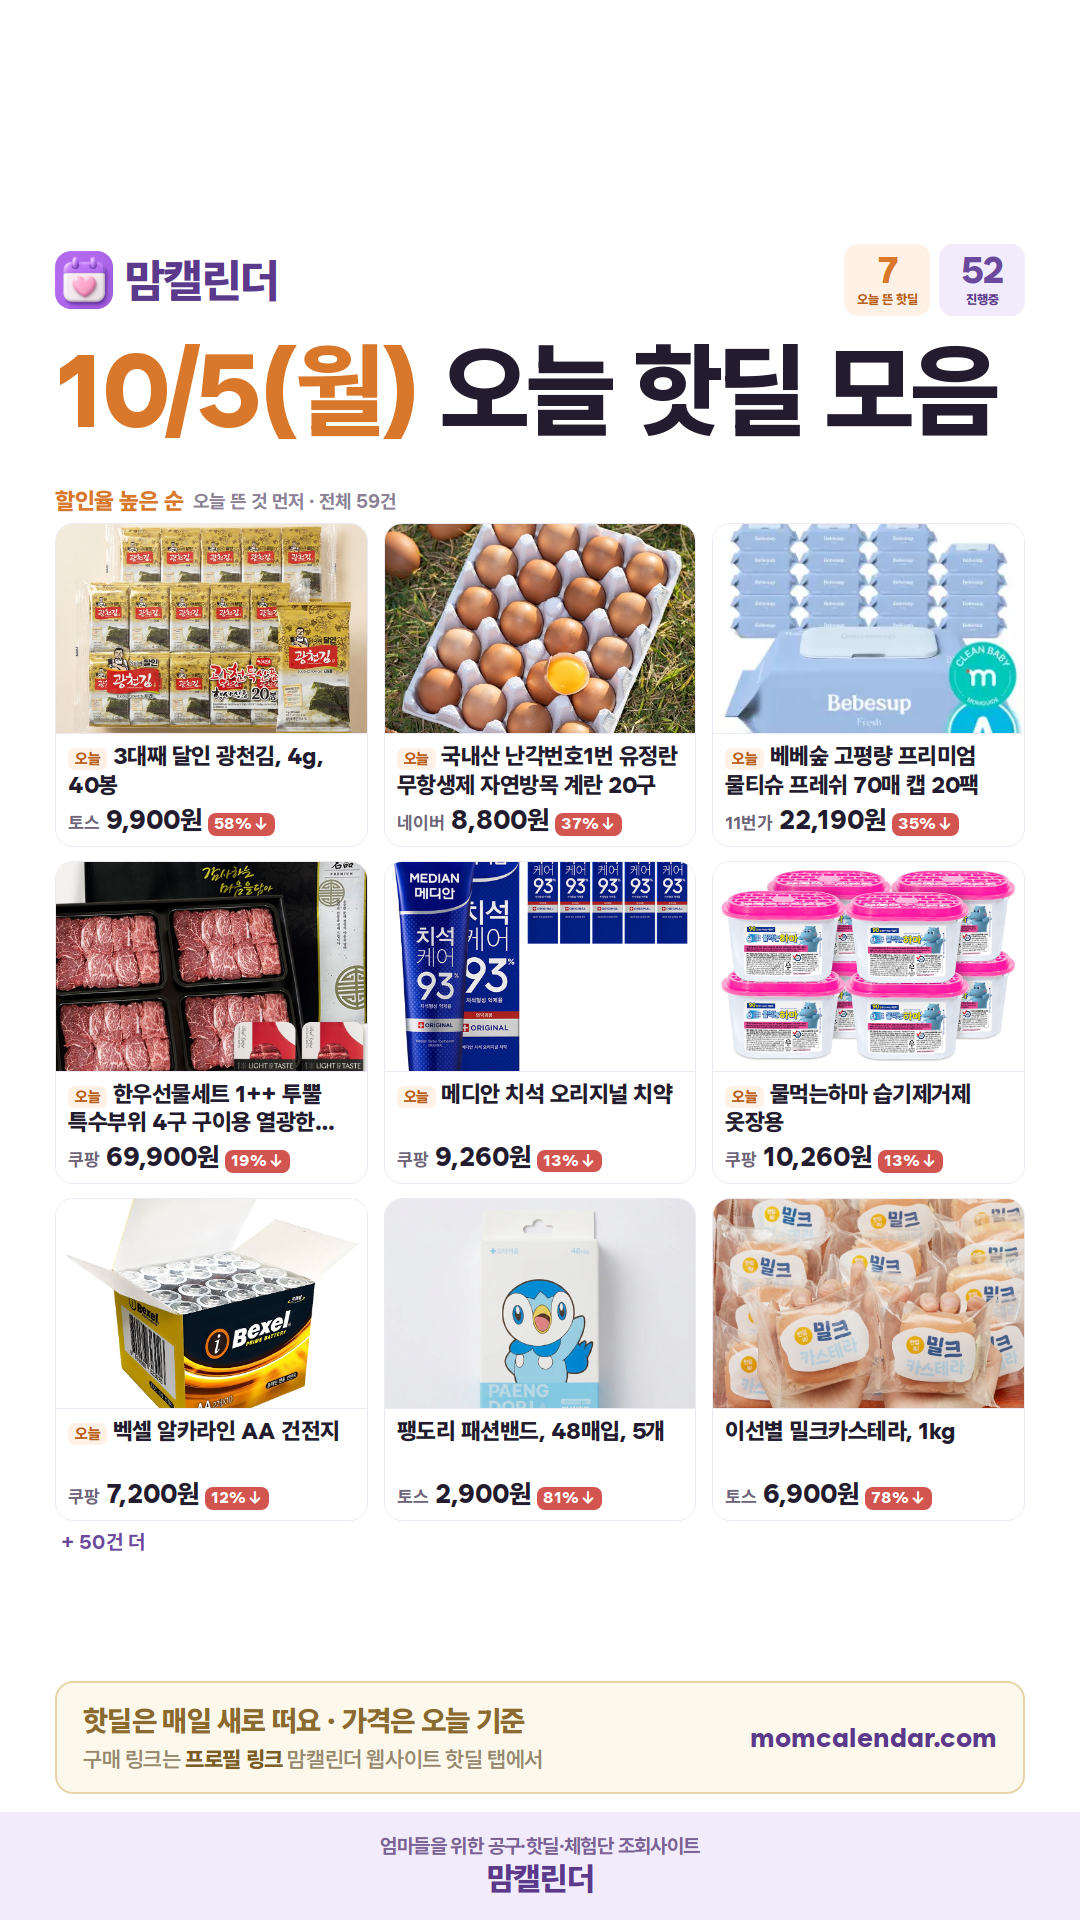
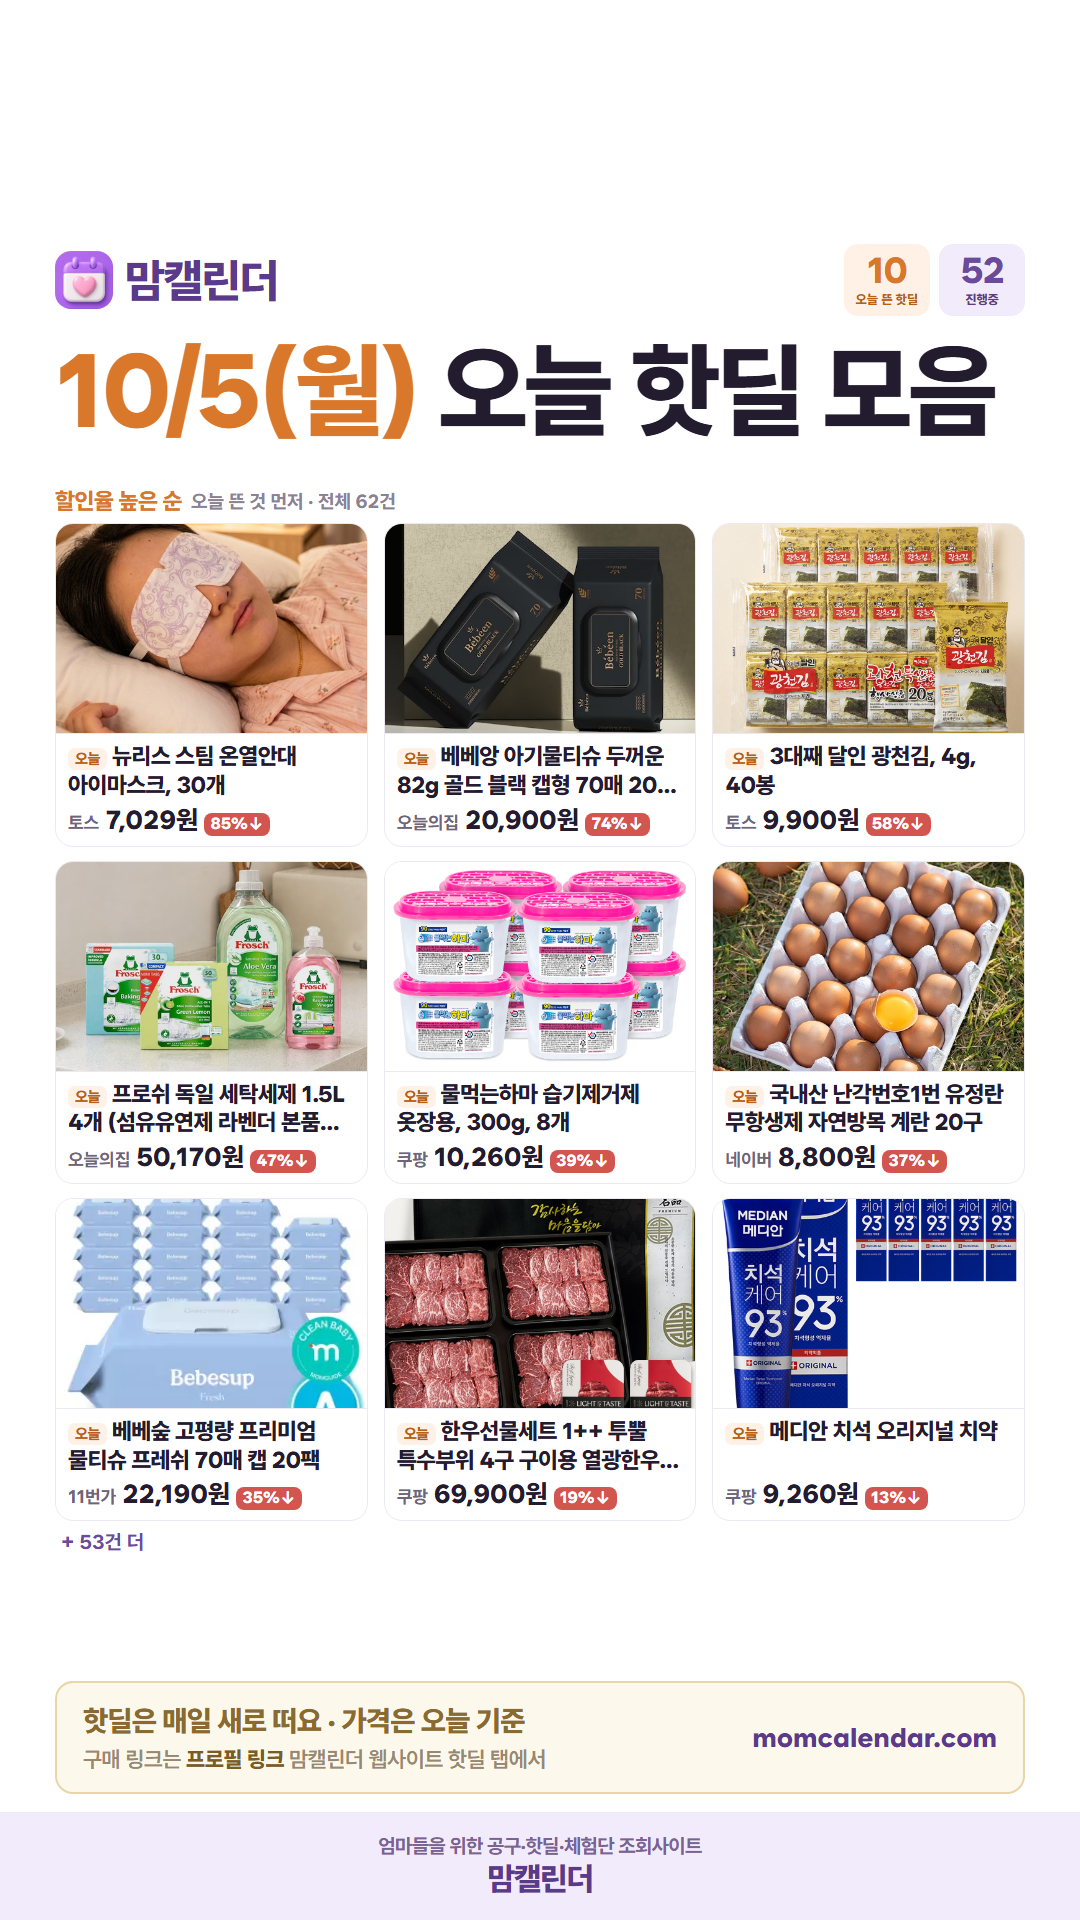
핫딜 카드 재생성 — 상품명에 수량 반영 (물먹는하마 300g 8개 · 온열안대 30개)
사장님 지적 "뭐가 몇갠지 알아야 싼지 비싼지 알지".
pull 로 다른 세션 판이 덮여 다시 뽑았다.

diff --git a/daily/hotdeal.html b/daily/hotdeal.html
@@ -1,3 +1,3 @@
 <!DOCTYPE html><html lang="ko"><head><meta charset="UTF-8"><meta name="viewport" content="width=device-width,initial-scale=1"><meta name="robots" content="noindex"><title>오늘 핫딜 카드 2026-10-05</title>
 <style>body{margin:0;background:#3A3145;color:#fff;font-family:sans-serif;text-align:center;padding:14px}img{max-width:100%;height:auto;border-radius:12px}p{font-size:14px;color:#C9BFD8}</style></head>
-<body><p>2026-10-05 오늘 핫딜 카드 · 길게 눌러 저장 · 매일 아침 07:40 갱신</p><img src="hotdeal.png?v=1791162938519" alt="오늘 핫딜 카드"></body></html>
+<body><p>2026-10-05 오늘 핫딜 카드 · 길게 눌러 저장 · 매일 아침 07:40 갱신</p><img src="hotdeal.png?v=1791167781236" alt="오늘 핫딜 카드"></body></html>
